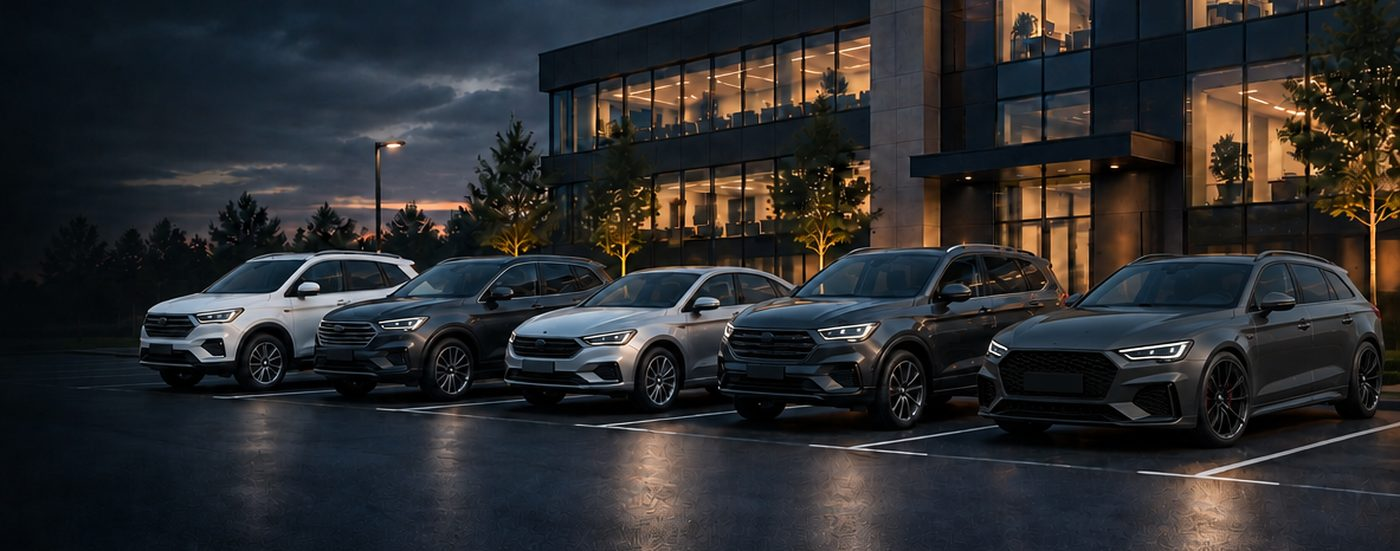
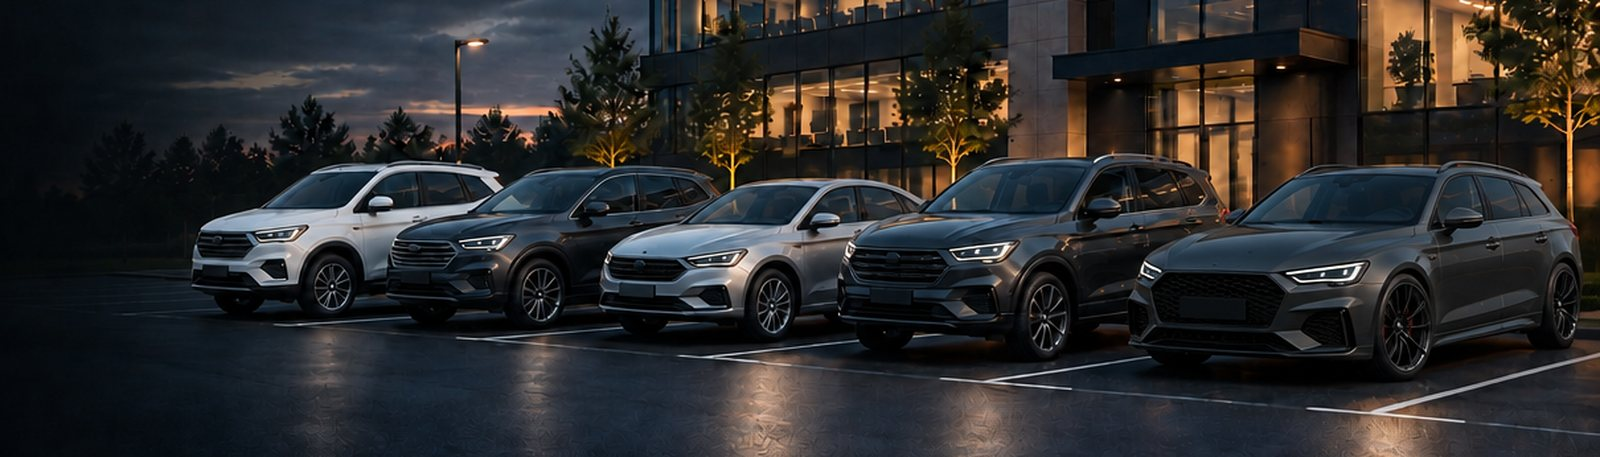
Fleet band: the whole row of cars fits the band; daytime photo in night mode, evening photo in day mode

diff --git a/app/sections.css b/app/sections.css
@@ -402,19 +402,22 @@ html.js .smap__check { display: grid; }
 .fleet {
   --fleet-accent: #f2c230; --fleet-on: #1f2227;
   position: relative; overflow: hidden; isolation: isolate;
-  height: 4.75rem; background: #16181c; color: #f1f2f4;
+  --fleet-h: 4.75rem; height: var(--fleet-h); background: #16181c; color: #f1f2f4;
 }
 :root[data-theme="dark"] .fleet { --fleet-accent: #e0262d; --fleet-on: #fff; background: #0e0f12; border-bottom: 1px solid #2a2d33; }
 .fleet__photo {
   position: absolute; inset: 0 0 0 auto; z-index: -1; width: var(--fleet-photo);
-  background: center 68% / cover no-repeat;
-  -webkit-mask-image: linear-gradient(90deg, transparent, #000 38%); mask-image: linear-gradient(90deg, transparent, #000 38%);
+  /* The whole row of cars, fitted to the band's height and anchored right. */
+  background: var(--photo-dusk) right center / auto 112% no-repeat;
+  -webkit-mask-image: linear-gradient(90deg, transparent, #000 22%); mask-image: linear-gradient(90deg, transparent, #000 22%);
 }
 /* Full width, not the page column: the label hugs the left edge, the button
    sits where the photo starts, and the words get everything in between. */
-.fleet { --fleet-photo: min(42%, 40rem); }
+/* The photo is as wide as the row of cars at the band's height. */
+.fleet { --fleet-photo: min(50%, calc(var(--fleet-h) * 4.1)); }
+:root[data-theme="dark"] .fleet__photo { background-image: var(--photo-day); }
 .fleet__inner { position: relative; height: 100%; display: flex; align-items: center; gap: 1.5rem; padding-inline: clamp(1rem, 3vw, 2.5rem); }
-.fleet--photo .fleet__inner { padding-right: calc(var(--fleet-photo) * 0.72); }
+.fleet--photo .fleet__inner { padding-right: calc(var(--fleet-photo) * 0.86); }
 .fleet__tag { flex: none; margin: 0; font-size: 0.8125rem; font-weight: 600; letter-spacing: 0.1em; text-transform: uppercase; color: var(--fleet-accent); }
 :root[data-theme="dark"] .fleet__tag { color: #ff6b6f; }
 .fleet__window {
@@ -439,18 +442,18 @@ html.js .smap__check { display: grid; }
 .fleet__call:active { transform: translateY(1px); }
 .fleet__call:focus-visible { outline: 2px solid var(--fleet-accent); outline-offset: 3px; }
 @media (max-width: 40em) {
-  .fleet { height: 3.75rem; }
+  .fleet { --fleet-h: 3.75rem; }
   .fleet__tag { display: none; }
-  .fleet { --fleet-photo: 36%; }
-  .fleet--photo .fleet__inner { padding-right: 30%; gap: 0.75rem; }
+  .fleet { --fleet-photo: min(40%, calc(var(--fleet-h) * 4.1)); }
+  .fleet--photo .fleet__inner { padding-right: calc(var(--fleet-photo) * 0.8); gap: 0.75rem; }
   .fleet__track li { font-size: 0.9375rem; }
   .fleet__call { padding: 0.5rem 0.85rem; font-size: 0.875rem; gap: 0.35rem; }
   .fleet__call-long { display: none; }
   .fleet__call-short { display: inline; }
 }
 /* The original, slimmer height: shown on the test copy for comparison (Tashii, 2026-10-23). */
-.fleet--slim { height: 3.5rem; }
+.fleet--slim { --fleet-h: 3.5rem; }
 .fleet--slim .fleet__track li { font-size: 0.9375rem; }
 .fleet--slim .fleet__call { padding: 0.45rem 1rem; font-size: 0.875rem; }
-@media (max-width: 40em) { .fleet--slim { height: 3rem; } }
+@media (max-width: 40em) { .fleet--slim { --fleet-h: 3rem; } }
 @media (prefers-reduced-motion: reduce) { .fleet__track { animation: none; } }

diff --git a/components/home/FleetBanner.tsx b/components/home/FleetBanner.tsx
@@ -8,6 +8,8 @@ import { PREVIEW } from "@/lib/preview";
 /** The office-lot photo, once it's in public/media. Until then the band is
  *  plain, so the test copy never shows a broken image. */
 const PHOTO = "/media/fleet-lot.jpg";
+/** The same lot by day: shown when the site is in night mode, for contrast. */
+const PHOTO_DAY = "/media/fleet-lot-day.jpg";
 const hasPhoto = fs.existsSync(path.join(process.cwd(), "public", PHOTO));
 
 /**
@@ -20,7 +22,7 @@ export function FleetBanner({ lang }: { lang: Lang }) {
   const f = dict(lang).home.fleet;
   return (
     <section className={`fleet${hasPhoto ? " fleet--photo" : ""}${PREVIEW ? " fleet--slim" : ""}`} aria-label={f.label}>
-      {hasPhoto && <span className="fleet__photo" style={{ backgroundImage: `url(${PHOTO})` }} aria-hidden="true" />}
+      {hasPhoto && <span className="fleet__photo" style={{ "--photo-dusk": `url(${PHOTO})`, "--photo-day": `url(${PHOTO_DAY})` } as React.CSSProperties} aria-hidden="true" />}
       <div className="fleet__inner">
         <p className="fleet__tag">{f.label}</p>
         <div className="fleet__window">
